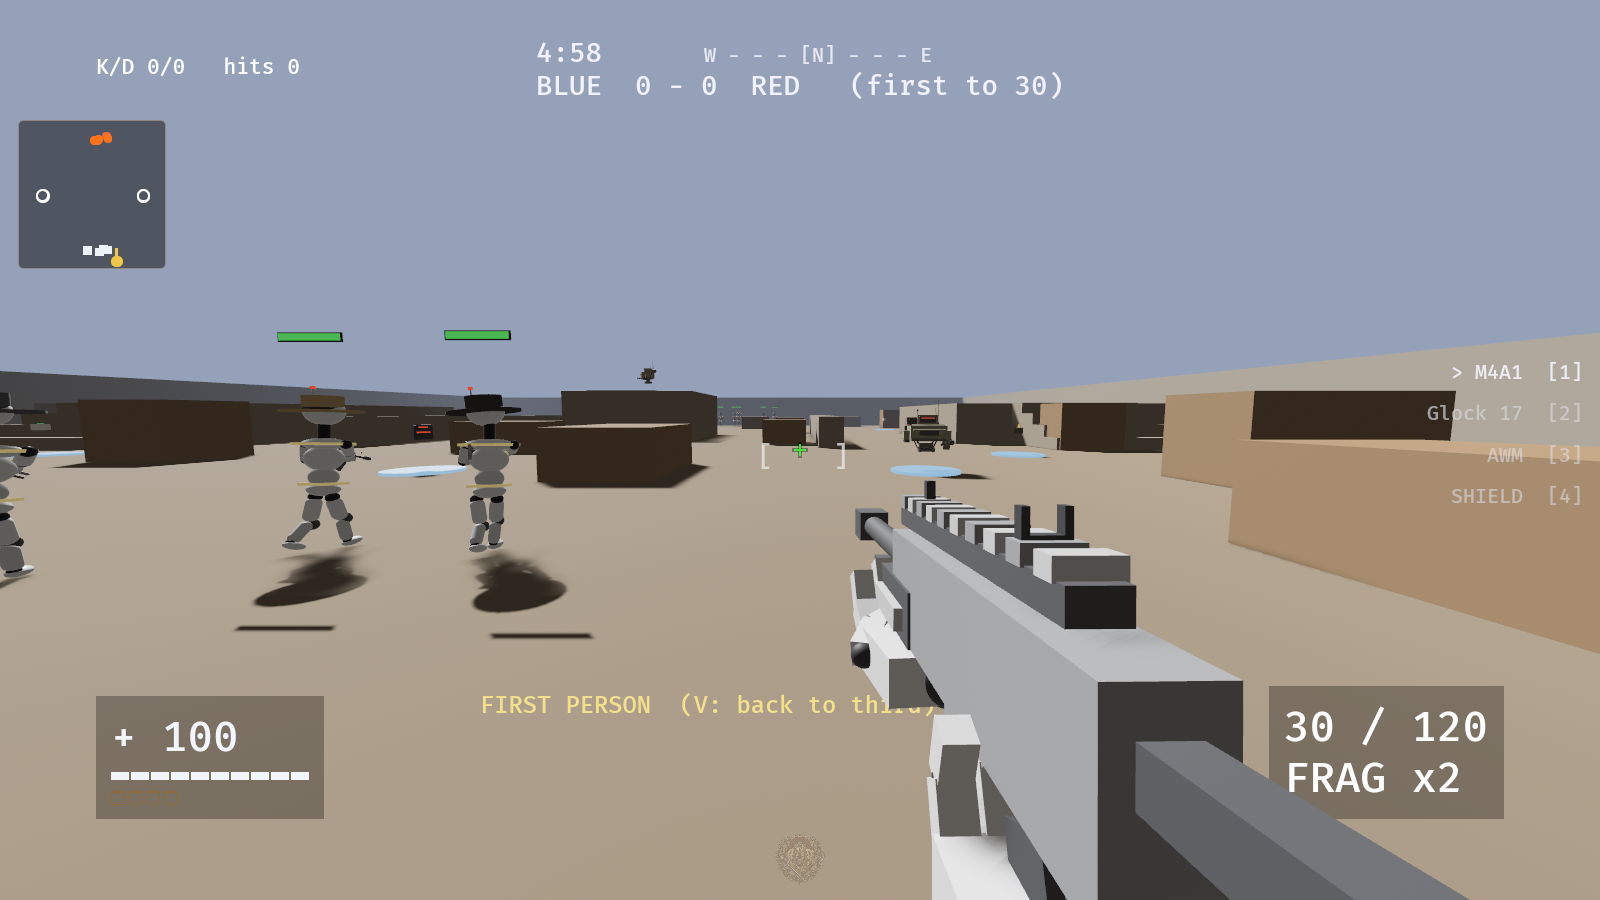
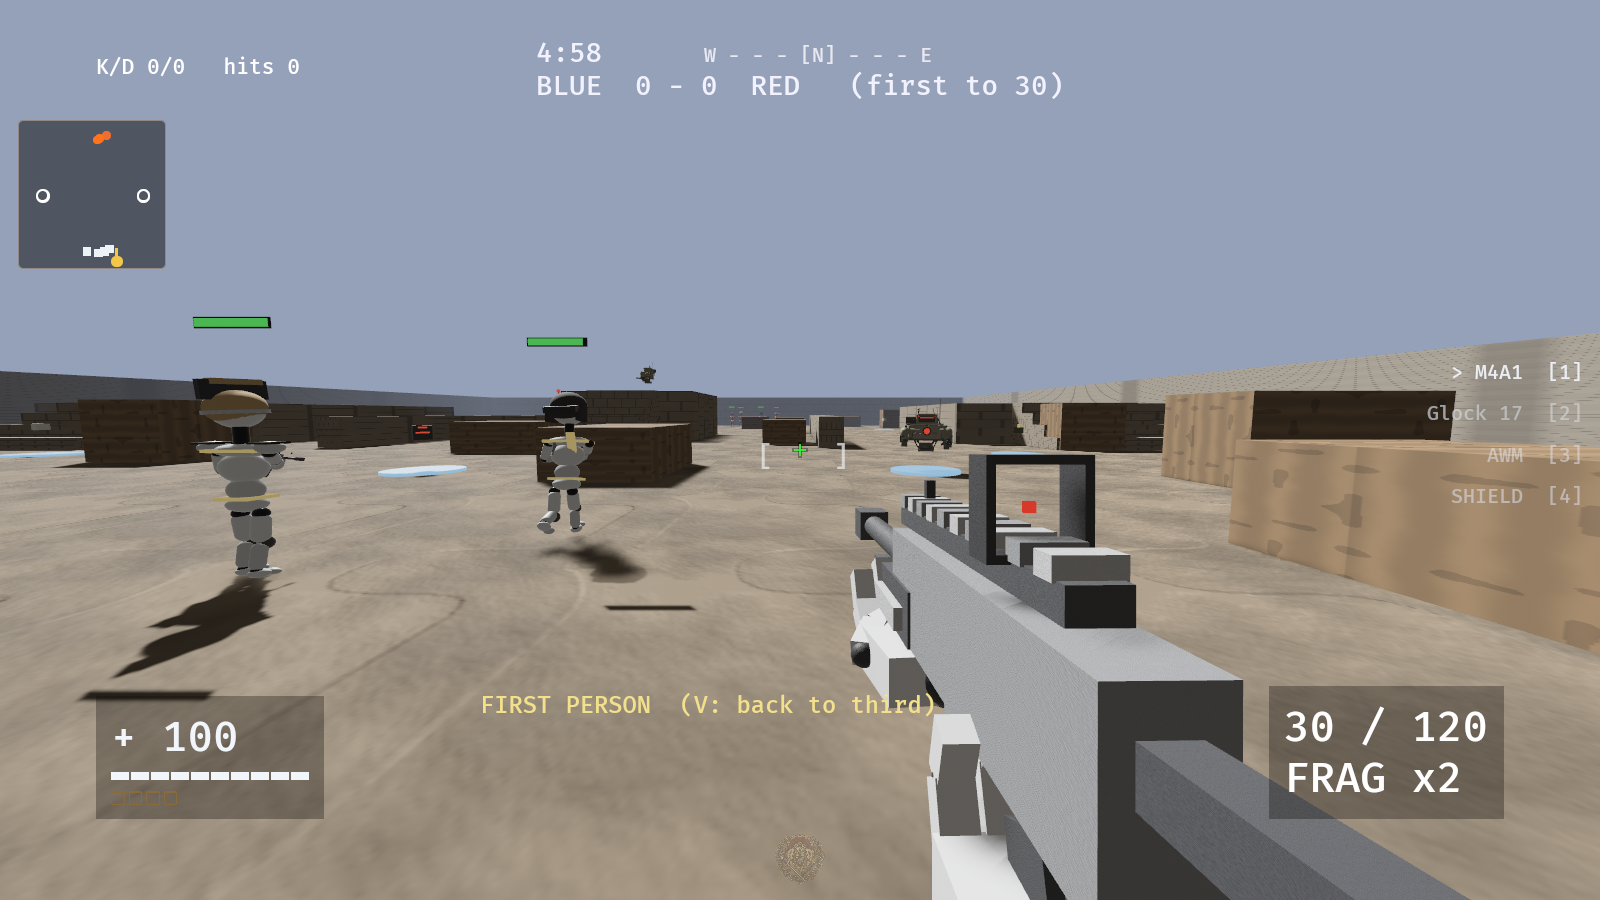
An energy barrier the pilot can see through and the enemy cannot
The mech barrier has existed as a MECHANIC for a while - a pool, an arc,
a regrow clock, a HUD bar - and as nothing at all on the model. A shield
you can only read in text is a shield players do not use.

THE CONTRADICTION IS THE DESIGN. The brief asks for a field that is
"transparent from the pilot's perspective for visibility" and
"visible to enemies through glowing energy edges", and one translucent
sheet cannot be both: whatever alpha makes it a window for me makes it
invisible to you, and whatever makes it a wall for you makes it frosted
glass for me.

So the field is two things. A FILL at 8.5% alpha, unlit and
double-sided, which is very nearly a window - and a LATTICE of bright
emissive bars drawn through it, which from outside reads as a wall of
light. A test pins the gap between those two numbers, because the whole
effect collapses if either drifts toward the other.

The lattice is real GEOMETRY on a hex axial grid, not a texture. A
texture goes flat edge-on and does not occlude; six short bars per cell
catch the light from every angle and give the field a hexagonal RIM
rather than a circle with a grid stamped on it - only cells whose centre
falls inside the radius are drawn.

THE EMITTER is a module, not a plate. "Integrated into the mech rather
than attached afterward" comes down to whether the thing has a housing
that belongs to the arm it rides on, so it is a boxed unit bolted along
the LEFT forearm cradle - the arm not holding the gatling, because a
[…]

diff --git a/engine/crates/jk_tdm/src/main.rs b/engine/crates/jk_tdm/src/main.rs
@@ -3418,6 +3418,10 @@ struct ModelKit {
     mech_hazard: Handle<StandardMaterial>,
     /// FP-only translucent shield set - the raised plate must not blind
     /// the player. Third-person shields keep the opaque materials above.
+    /// §owner MECH BARRIER: the near-invisible field body, and the bright
+    /// cell edges drawn through it. See where they are built.
+    barrier_fill: Handle<StandardMaterial>,
+    barrier_edge: Handle<StandardMaterial>,
     vm_shield_dark: Handle<StandardMaterial>,
     vm_shield_steel: Handle<StandardMaterial>,
     vm_shield_gold: Handle<StandardMaterial>,
@@ -6011,6 +6015,7 @@ fn main() {
                 update_casings,
                 spin_minigun_barrels,
                 spin_mech_turret_barrels,
+                mech_barrier_sync,
                 bow_string_sync,
                 grenade_arc,
                 rocket_aim_preview,
@@ -7104,6 +7109,238 @@ fn spawn_shield_model(commands: &mut Commands, kit: &ModelKit, see_through: bool
         .insert(Transform::from_xyz(0.0, -0.02, -0.08))
         .set_parent(root);
     root
+}
+
+/// §owner MECH BARRIER: the arm module that projects the field, and the
+/// field itself.
+#[derive(Component)]
+struct MechBarrier {
+    /// The folding emitter arms - three panels that lie along the
+    /// forearm stowed and swing out to frame the field.
+    petals: [Entity; 3],
+    /// The projected field: fill sheet plus the hex cell edges.
+    field: Entity,
+}
+
+/// How far the emitter petals swing out when the barrier deploys.
+const BARRIER_PETAL_DEG: f32 = 62.0;
+/// Deploy/stow time. Fast - the brief asks for a shield that "deploys
+/// quickly during combat", and a barrier you have to plan half a second
+/// ahead of is one you die behind.
+const BARRIER_DEPLOY_S: f32 = 0.18;
+
+/// Build the arm-mounted barrier projector.
+///
+/// It is a MODULE on the forearm, not a plate held in front of it: the
+/// brief asks for something that "looks integrated into the mech rather
+/// than attached afterward", and the difference is whether the thing has
+/// a housing that belongs to the arm it rides on. So: a boxed emitter
+/// bolted along the forearm cradle, three petals that lie flat against
+/// it when stowed, and the field projected from between them.
+///
+/// The FIELD is built as a fill sheet plus a hexagonal lattice of edge
+/// bars. That is the whole trick behind "transparent to the pilot,
+/// visible to the enemy": the fill is at 8% alpha and unlit, so it is
+/// very nearly a window, while the lattice is bright and emissive and
+/// reads from outside as a wall of light. One translucent sheet cannot
+/// be both things at once.
+fn spawn_mech_barrier(commands: &mut Commands, kit: &ModelKit) -> (Entity, MechBarrier) {
+    let root = commands
+        .spawn((Transform::IDENTITY, Visibility::default()))
+        .id();
+    // EMITTER HOUSING - reads as part of the forearm
+    for (mat, pos, sc) in [
+        (kit.mech_khaki.clone(), Vec3::new(0.0, 0.0, 0.0), Vec3::new(0.20, 0.14, 0.42)),
+        (kit.mech_khaki_dk.clone(), Vec3::new(0.0, 0.085, 0.0), Vec3::new(0.17, 0.035, 0.38)),
+        (kit.mech_shadow.clone(), Vec3::new(0.0, -0.075, 0.0), Vec3::new(0.16, 0.030, 0.36)),
+    ] {
+        commands
+            .spawn((
+                Mesh3d(kit.cube.clone()),
+                MeshMaterial3d(mat),
+                Transform::from_translation(pos).with_scale(sc),
+            ))
+            .set_parent(root);
+    }
+    // the projector lens the field grows out of, and its capacitor ring
+    commands
+        .spawn((
+            Mesh3d(kit.cyl.clone()),
+            MeshMaterial3d(kit.mech_metal.clone()),
+            Transform {
+                translation: Vec3::new(0.0, 0.0, 0.215),
+                rotation: Quat::from_rotation_x(FRAC_PI_2),
+                scale: Vec3::new(0.155, 0.040, 0.155),
+            },
+        ))
+        .set_parent(root);
+    commands
+        .spawn((
+            Mesh3d(kit.cyl.clone()),
+            MeshMaterial3d(kit.barrier_edge.clone()),
+            Transform {
+                translation: Vec3::new(0.0, 0.0, 0.238),
+                rotation: Quat::from_rotation_x(FRAC_PI_2),
+                scale: Vec3::new(0.105, 0.016, 0.105),
+            },
+        ))
+        .set_parent(root);
+
+    // THE PETALS - three folding frames. Stowed they lie along the
+    // housing; deployed they splay to carry the field's corners.
+    let mut petals = [Entity::PLACEHOLDER; 3];
+    for (i, roll) in [0.0_f32, 2.094, -2.094].into_iter().enumerate() {
+        let petal = commands
+            .spawn((
+                Transform::from_xyz(0.0, 0.0, 0.22)
+                    .with_rotation(Quat::from_rotation_z(roll)),
+                Visibility::default(),
+            ))
+            .set_parent(root)
+            .id();
+        // the arm, plus a lit strip running its length
+        commands
+            .spawn((
+                Mesh3d(kit.cube.clone()),
+                MeshMaterial3d(kit.mech_khaki_dk.clone()),
+                Transform::from_xyz(0.0, 0.20, 0.0)
+                    .with_scale(Vec3::new(0.055, 0.42, 0.045)),
+            ))
+            .set_parent(petal);
+        commands
+            .spawn((
+                Mesh3d(kit.cube.clone()),
+                MeshMaterial3d(kit.barrier_edge.clone()),
+                Transform::from_xyz(0.0, 0.20, 0.026)
+                    .with_scale(Vec3::new(0.016, 0.36, 0.012)),
+            ))
+            .set_parent(petal);
+        // the tip node that anchors a corner of the field
+        commands
+            .spawn((
+                Mesh3d(kit.ball.clone()),
+                MeshMaterial3d(kit.mech_metal.clone()),
+                Transform::from_xyz(0.0, 0.41, 0.0)
+                    .with_scale(Vec3::splat(0.055)),
+            ))
+            .set_parent(petal);
+        petals[i] = petal;
+    }
+
+    // THE FIELD - a group so one Visibility and one scale animate it all
+    let field = commands
+        .spawn((
+            Transform::from_xyz(0.0, 0.0, 0.30),
+            Visibility::Hidden,
+        ))
+        .set_parent(root)
+        .id();
+    // the fill sheet: a thin disc, near-invisible, double-sided
+    commands
+        .spawn((
+            Mesh3d(kit.cyl.clone()),
+            MeshMaterial3d(kit.barrier_fill.clone()),
+            Transform {
+                translation: Vec3::ZERO,
+                rotation: Quat::from_rotation_x(FRAC_PI_2),
+                scale: Vec3::new(1.70, 0.012, 1.70),
+            },
+        ))
+        .set_parent(field);
+    // the HEX LATTICE. Cells on an axial grid, each drawn as six short
+    // bars - so the pattern is real geometry that catches the light and
+    // occludes correctly, not a texture that would go flat edge-on.
+    //
+    // Only cells whose centre falls inside the field radius are drawn,
+    // which is what gives the barrier a hexagonal rim rather than a
+    // circle with a grid stamped on it.
+    const CELL: f32 = 0.235;
+    for q in -4i32..=4 {
+        for r in -4i32..=4 {
+            let cx = CELL * 1.5 * q as f32;
+            let cy = CELL * (3.0_f32).sqrt() * (r as f32 + q as f32 * 0.5);
+            if (cx * cx + cy * cy).sqrt() > 0.80 {
+                continue;
+            }
+            for k in 0..6 {
+                let a = k as f32 * std::f32::consts::TAU / 6.0;
+                let na = (k + 1) as f32 * std::f32::consts::TAU / 6.0;
+                let (x0, y0) = (cx + a.cos() * CELL * 0.58, cy + a.sin() * CELL * 0.58);
+                let (x1, y1) = (cx + na.cos() * CELL * 0.58, cy + na.sin() * CELL * 0.58);
+                let (mx, my) = ((x0 + x1) * 0.5, (y0 + y1) * 0.5);
+                let len = ((x1 - x0).powi(2) + (y1 - y0).powi(2)).sqrt();
+                commands
+                    .spawn((
+                        Mesh3d(kit.cube.clone()),
+                        MeshMaterial3d(kit.barrier_edge.clone()),
+                        Transform {
+                            translation: Vec3::new(mx, my, 0.0),
+                            rotation: Quat::from_rotation_z((y1 - y0).atan2(x1 - x0)),
+                            scale: Vec3::new(len, 0.010, 0.008),
+                        },
+                    ))
+                    .set_parent(field);
+            }
+        }
+    }
+    (root, MechBarrier { petals, field })
+}
+
+/// §owner MECH BARRIER: fold, deploy, and ripple.
+///
+/// The deploy is a single 0..1 clock driving three things at once - the
+/// petals swinging out, the field scaling up from nothing, and its
+/// visibility - so the barrier cannot get into a state where the frame
+/// is open and the field is missing.
+///
+/// The RIPPLE is a scale wobble on the field group rather than a shader:
+/// this build has no custom material pipeline, and a breathing lattice
+/// reads as energy from every angle a shader would have. Two frequencies
+/// that do not share a period, the same trick the mech's idle tremor
+/// uses, so it never resolves into a single pulse.
+fn mech_barrier_sync(
+    time: Res<Time>,
+    game: Res<Game>,
+    rigs: Query<(&FighterVis, &MechBarrier)>,
+    mut parts: Query<(&mut Transform, &mut Visibility)>,
+) {
+    let dt = time.delta_secs();
+    let tnow = time.elapsed_secs();
+    for (vis, bar) in &rigs {
+        let Some(f) = game.sim.fighters.get(vis.index) else { continue };
+        // up only in a chassis, with the pool still standing
+        let want = f.in_mech() && f.shield_up && f.mech_shield_hp > 0.0;
+        // one clock, read back off the field's own scale so no extra
+        // per-fighter state is needed for a purely cosmetic animation
+        let cur = parts
+            .get(bar.field)
+            .map(|(t, _)| t.scale.x.clamp(0.0, 1.0))
+            .unwrap_or(0.0);
+        let step = dt / BARRIER_DEPLOY_S;
+        let e = if want { (cur + step).min(1.0) } else { (cur - step).max(0.0) };
+        for p in bar.petals {
+            if let Ok((mut t, _)) = parts.get_mut(p) {
+                let roll = t.rotation.to_euler(EulerRot::ZYX).0;
+                t.rotation = Quat::from_rotation_z(roll)
+                    * Quat::from_rotation_x(-BARRIER_PETAL_DEG.to_radians() * e);
+            }
+        }
+        if let Ok((mut t, mut v)) = parts.get_mut(bar.field) {
+            // the ripple - only once the field is actually up, so a
+            // stowed barrier is perfectly still
+            let ripple = if e > 0.99 {
+                1.0 + (tnow * 5.3).sin() * 0.012 + (tnow * 8.7).sin() * 0.007
+            } else {
+                1.0
+            };
+            t.scale = Vec3::splat(e * ripple);
+            *v = if e > 0.01 {
+                Visibility::Inherited
+            } else {
+                Visibility::Hidden
+            };
+        }
+    }
 }
 
 /// §C: the TURRET mount's viewmodel barrel cluster - spun by the mount's
@@ -9363,6 +9600,18 @@ fn spawn_fighter_rigs(
         // and the viewmodel gets one too.)
         // the mech hull kit + leg armour (Brief VIII-B D.1-D.6)
         let (armor_rig, hull_det) = spawn_armor_rig(commands, kit);
+        // §owner MECH BARRIER: on the LEFT forearm cradle, which is the
+        // arm that is not holding the gatling - a shield on the gun arm
+        // would be a shield you cannot use while shooting.
+        let (barrier_root, barrier) = spawn_mech_barrier(commands, kit);
+        commands
+            .entity(barrier_root)
+            .insert(Transform {
+                translation: Vec3::new(-0.645, 0.145, 0.30) * MECH_HULL_SCALE,
+                rotation: Quat::from_rotation_x(-0.10),
+                scale: Vec3::splat(MECH_HULL_SCALE),
+            })
+            .set_parent(armor_rig);
         let la_l = spawn_mech_leg_armor(commands, kit, leg_l[0], leg_l[1], leg_l[2], -1.0);
         let la_r = spawn_mech_leg_armor(commands, kit, leg_r[0], leg_r[1], leg_r[2], 1.0);
         commands
@@ -9372,6 +9621,7 @@ fn spawn_fighter_rigs(
                 Visibility::Hidden,
             ))
             .set_parent(torso);
+        commands.entity(root).insert(barrier);
         commands.entity(root).insert(FighterRig {
             phase: 0.0,
             prev_speed: 0.0,
@@ -9727,6 +9977,36 @@ fn setup(
         // 1.0 + Blend reads as near-invisible smoked glass. Alpha 0.28
         // per slat because the three angled slats overlap and
         // double-blend at their edges (~0.3 net).
+        // §owner MECH BARRIER: the energy field itself.
+        //
+        // Two materials because the brief asks for two contradictory
+        // things at once - "transparent from the pilot's perspective for
+        // visibility" and "visible to enemies through glowing energy
+        // edges". A single translucent sheet cannot be both; a very faint
+        // FILL plus a bright EDGE can. The fill is what you see through,
+        // the edges are what they see.
+        //
+        // Unlit on the fill so it does not pick up the map's lighting and
+        // go opaque in shadow - a barrier that dims when you back into
+        // cover is a barrier the pilot cannot trust.
+        barrier_fill: materials.add(StandardMaterial {
+            base_color: Color::srgba(0.30, 0.72, 0.95, 0.085),
+            emissive: LinearRgba::new(0.06, 0.20, 0.30, 1.0),
+            alpha_mode: AlphaMode::Blend,
+            unlit: true,
+            double_sided: true,
+            cull_mode: None,
+            ..default()
+        }),
+        barrier_edge: materials.add(StandardMaterial {
+            base_color: Color::srgba(0.55, 0.90, 1.0, 0.60),
+            emissive: LinearRgba::new(1.2, 3.4, 4.6, 1.0),
+            alpha_mode: AlphaMode::Blend,
+            unlit: true,
+            double_sided: true,
+            cull_mode: None,
+            ..default()
+        }),
         vm_shield_dark: materials.add(StandardMaterial {
             base_color: Color::srgba(0.14, 0.15, 0.18, 0.28),
             metallic: 0.1,
@@ -20714,6 +20994,41 @@ mod segment_tests {
         assert!(
             SHOULDER_HEIGHT_FRAC < 1.0,
             "the shoulders are below the top of the head"
+        );
+    }
+
+    /// §owner MECH BARRIER: the two halves of "transparent to me, a wall
+    /// of light to you" are actually opposed, and the numbers have to
+    /// keep them that way.
+    ///
+    /// A single translucent sheet cannot satisfy both readings, which is
+    /// why the field is a near-invisible FILL plus a bright LATTICE. If
+    /// the fill ever creeps up toward the lattice's opacity the pilot
+    /// starts fighting through frosted glass, and if the lattice ever
+    /// dims toward the fill the enemy stops seeing a shield at all.
+    #[test]
+    fn the_barrier_is_a_window_to_the_pilot_and_a_wall_to_the_enemy() {
+        // the fill has to be nearly clear - this is the number the
+        // pilot's visibility depends on
+        const FILL_A: f32 = 0.085;
+        const EDGE_A: f32 = 0.60;
+        assert!(FILL_A < 0.12, "a pilot cannot fight through {FILL_A} alpha");
+        assert!(
+            EDGE_A > FILL_A * 5.0,
+            "the lattice must dominate the fill by a wide margin, or the \
+             barrier reads as a smudge from both sides"
+        );
+        // and the deploy has to be combat-fast. A barrier you have to
+        // raise half a second early is one you die behind.
+        assert!(
+            BARRIER_DEPLOY_S <= 0.25,
+            "{BARRIER_DEPLOY_S}s is too slow to be a reaction"
+        );
+        assert!(BARRIER_DEPLOY_S > 0.0, "an instant deploy has no read at all");
+        // the petals must actually open far enough to frame a field
+        assert!(
+            (30.0..90.0).contains(&BARRIER_PETAL_DEG),
+            "{BARRIER_PETAL_DEG} deg does not read as a fold"
         );
     }
 
